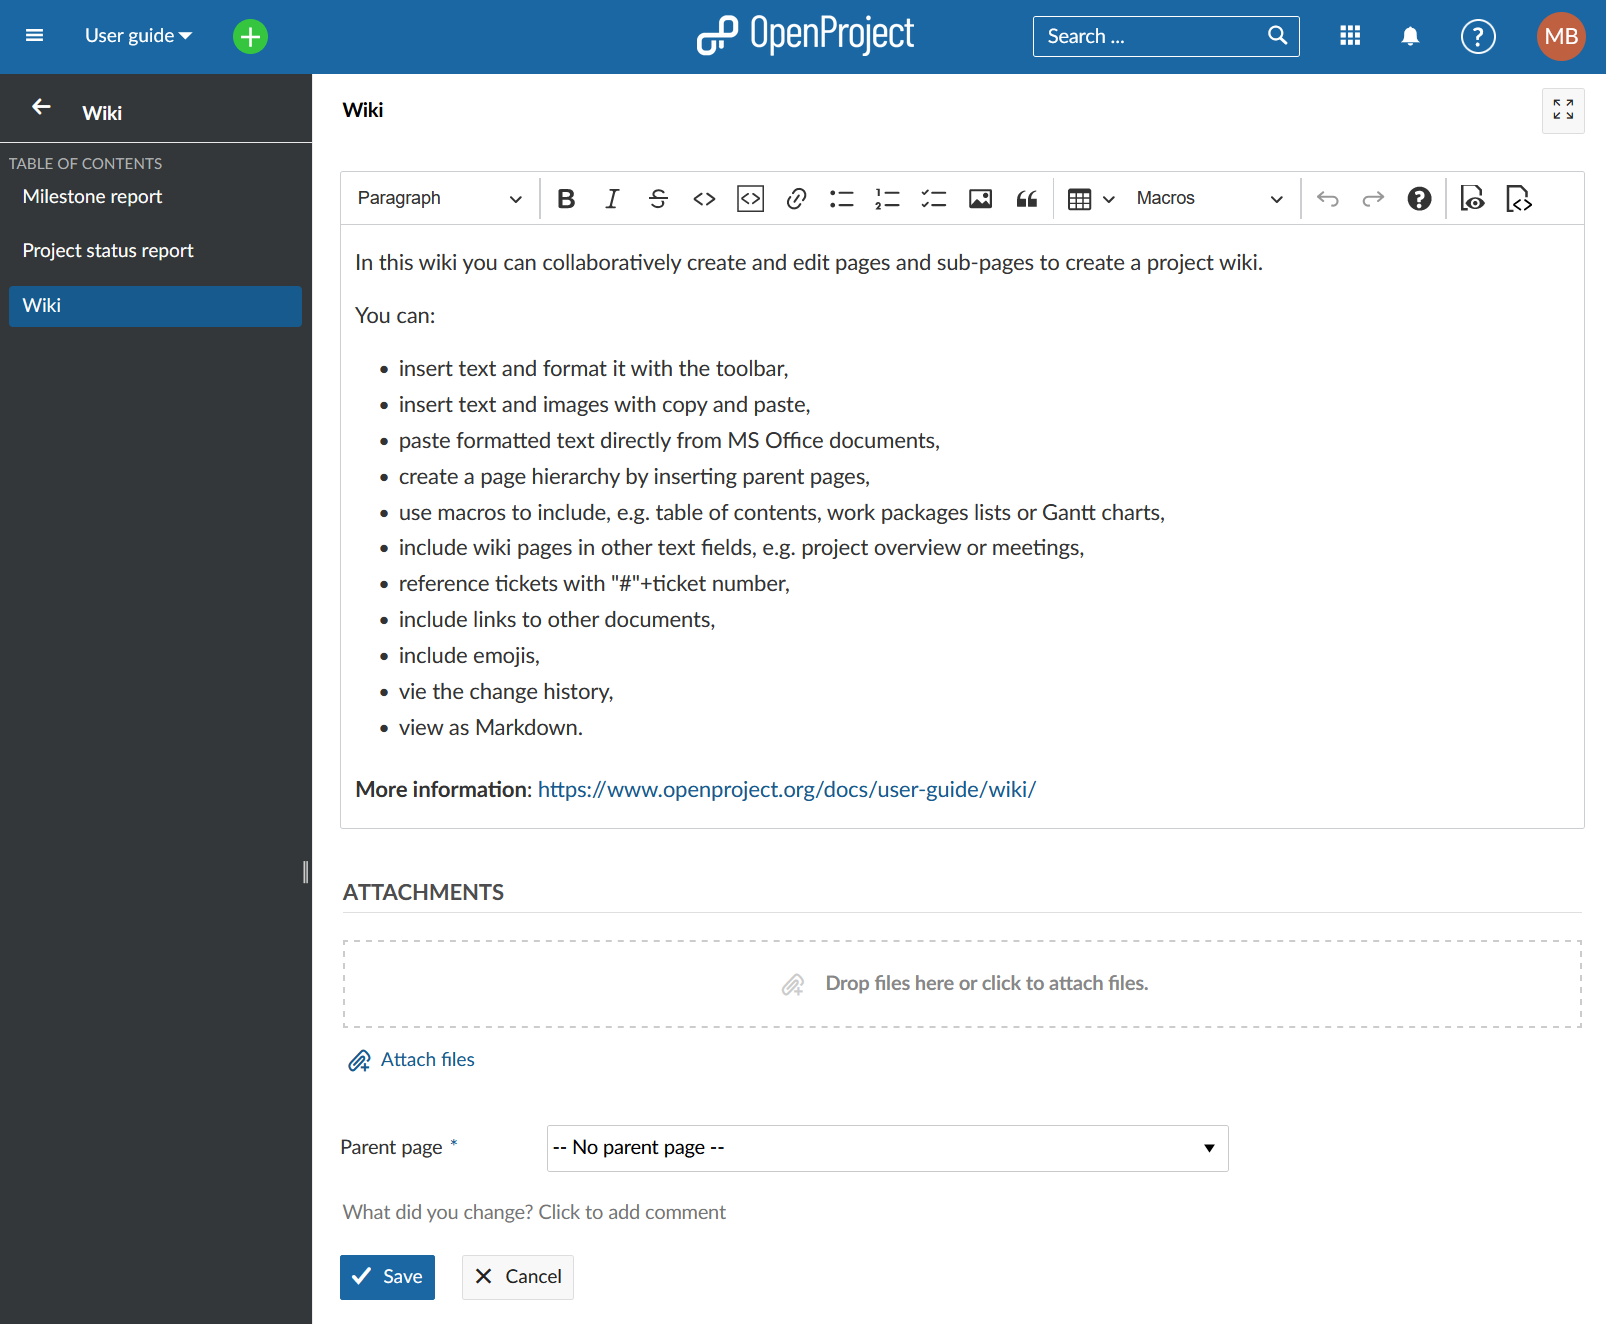
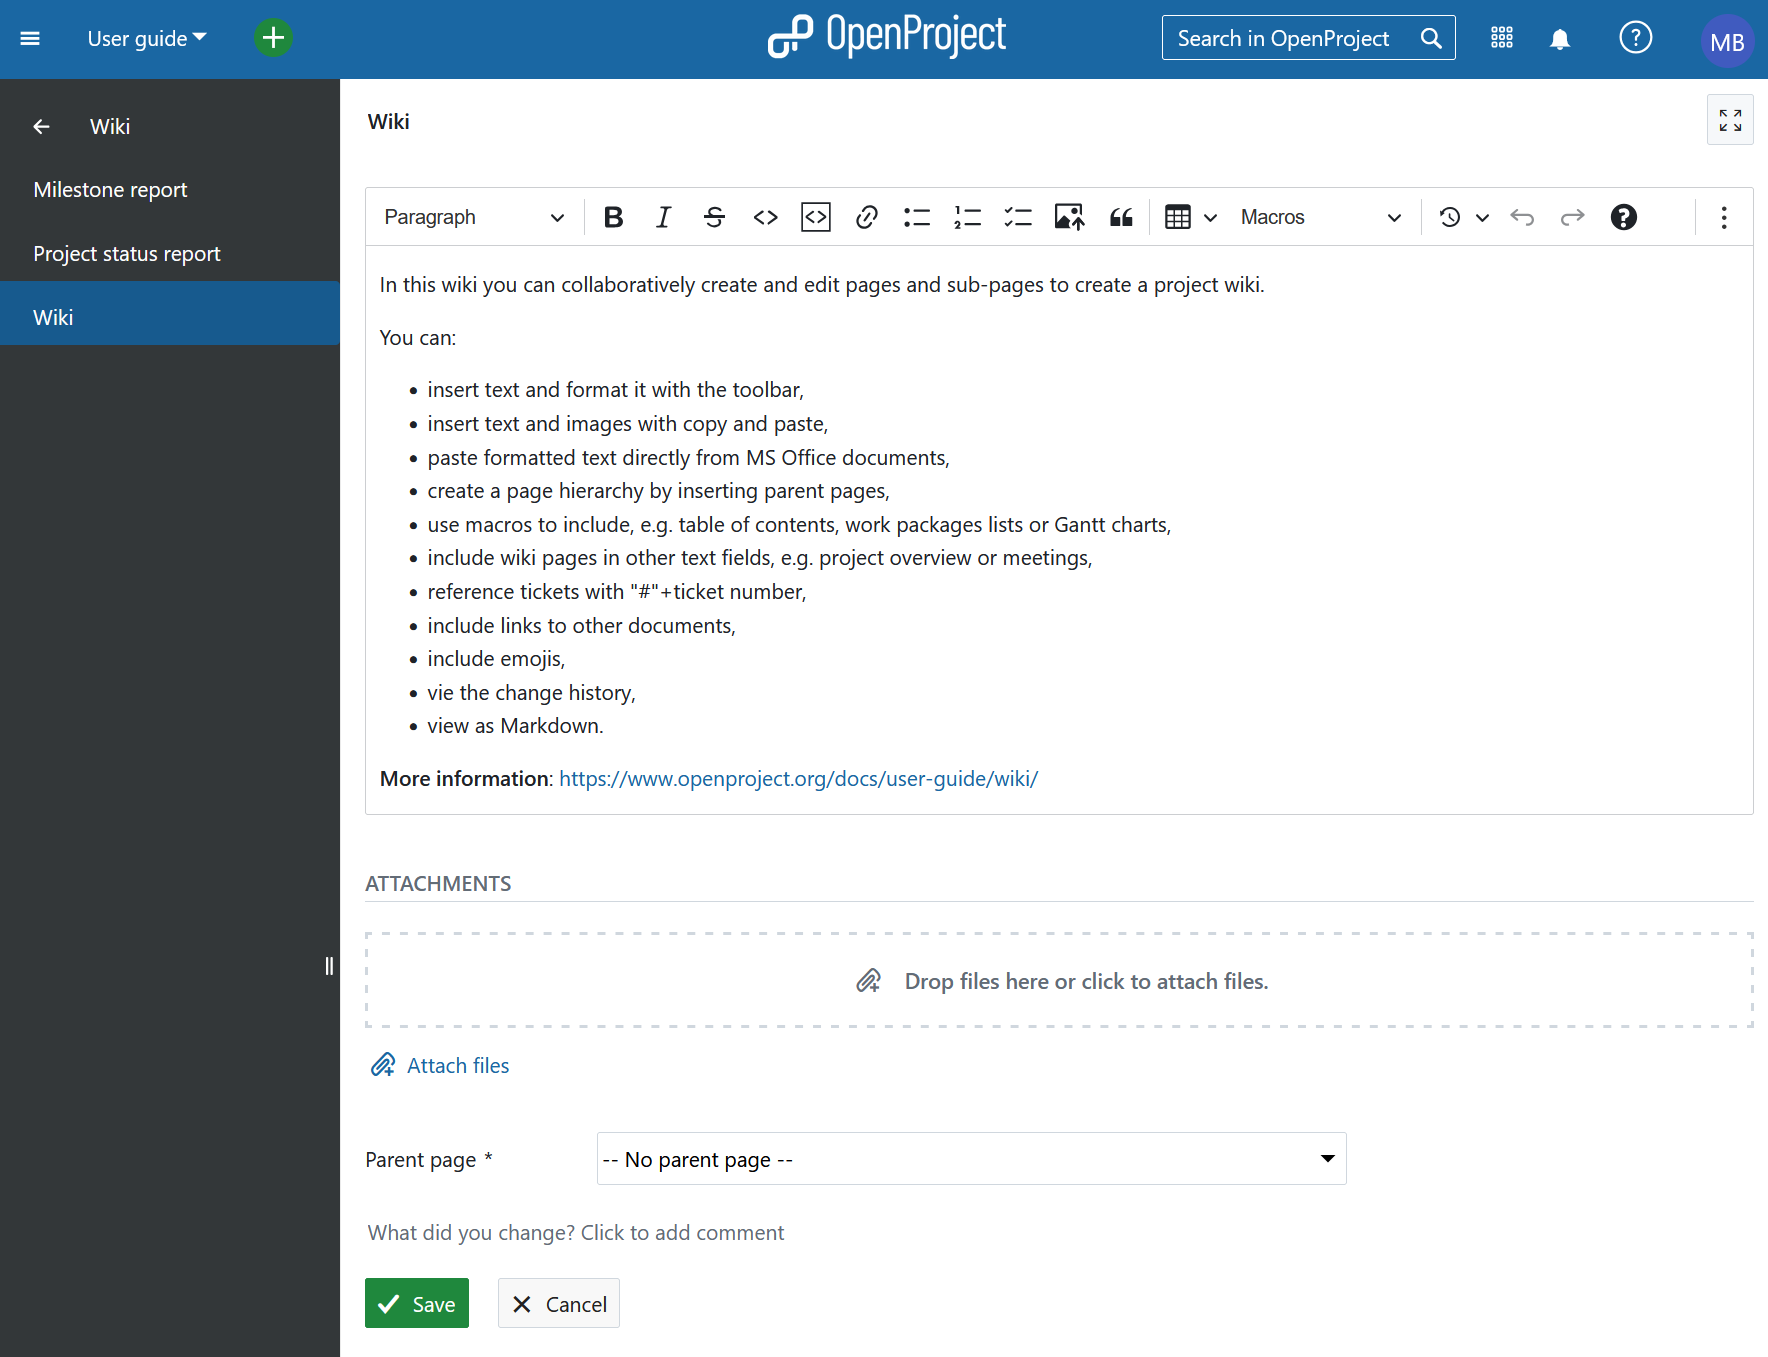
[#57590] 14.5 Documentation: Store revisions of WYSIWYG content in local storage  https://community.openproject.org/work_packages/57590
[#57590] 14.5 Documentation: Store revisions of WYSIWYG content in local storage

https://community.openproject.org/work_packages/57590

diff --git a/docs/user-guide/wiki/create-edit-wiki/README.md b/docs/user-guide/wiki/create-edit-wiki/README.md
@@ -21,9 +21,11 @@ In OpenProject you can create and edit wiki pages together with your team to doc
 
 To create a new wiki page in a project, navigate to the wiki module in your project menu and click on the green **+ Wiki page** button in the toolbar on the right hand side.
 
-![create-wiki-page](1568198706474.png)
+![Create a new wiki page in OpenProject](openproject_user_guide_create_wiki_page_button.png)
 
-> **Note**: If you do not see the wiki module in your project menu, you first have to [activate the module in your project settings](../../projects).
+> [!TIP]
+>
+> If you do not see the wiki module in your project menu, you first have to [activate the module in your project settings](../../projects).
 
 The editor window will open, allowing you to enter title and content of the new page.
 
@@ -34,17 +36,23 @@ The editor window will open, allowing you to enter title and content of the new 
 5. Comment which changes you have made to a wiki page.
 6. Save (or cancel) your changes to the page.
 
-![create-wiki](create-wiki-1568199670933.png)
+![Form to create a new wiki page in OpenProject](openproject_user_guide_create_wiki_page_form.png)
 
 ## Edit a wiki page
 
 To edit a wiki page, click the **Edit** button on the wiki page details on the top right.
 
-![edit-wiki-page](edit-wiki-page.png)
+![Edit wiki page in OpenProject](openproject_user_guide_edit_wiki_page_button.png)
 
 The text editor will be opened to make changes to the wiki page, as described above, how to [create a new wiki page](#create-a-new-wiki-page).
 
 Do not forget to **Save** your changes after you finished editing the page.
+
+> [!TIP] 
+>
+> Changes you made are saved locally. If you navigated away from page or could not save your changes due to a technical difficulty, you can access latest changes via the editor toolbar.
+
+![Restore local backups in text editor in OpenProject](openproject_user_guide_wiki_autosave_icon.png)
 
 ### Change the wiki page title
 
@@ -54,13 +62,11 @@ Do not forget to **Save** your changes by pressing the button at the bottom of t
 
 ## Create a wiki page structure
 
-If you want to create a wiki structure with different pages and sub-pages, you can enter a parent page for a wiki page which then will be displayed automatically in the wiki page menu.
-
-![wiki-page-structure](1568209656591.png)
+If you want to create a wiki structure with different pages and sub-pages, you can enter a parent page for a wiki page which then will be displayed automatically in the wiki page menu on the left.
 
 If you are on an existing wiki page and click the green **+ Wiki page** button on top of the page to [create a new wiki page](#create-a-new-wiki-page), the wiki page will already be pre-selected as a **parent page**.
 
-![wiki-parent-page](1568209633619.png)
+![Wiki page structure example with page parent](openproject_user_guide_wiki_child_page_example.png)
 
 You can change the parent page afterwards to change the wiki page structure by clicking on the **Edit** button of an existing wiki page and select the new parent page at the bottom of the form.
 
@@ -68,12 +74,12 @@ If you select **-- No parent page --** the wiki page will be displayed at first 
 
 The pages are ordered alphabetically in the wiki menu.
 
-![wiki-page-structure](1568210445539.png)
+![Wiki page structure example with no parent](openproject_user_guide_wiki_noparent_page_example.png)
 
 ## Watch a wiki page
 
 If you want to keep updated about any changes to a wiki page, you can make use of the **Watch** option. Browse to the wiki page you want to watch and click on the **Watch** button in the top right corner. You can undo this choice at any time.
 
-![watch-wiki](watch-wiki.png)
+![Watch a wiki page in OpenProject](openproject_user_guide_watch_wiki_page_button.png)
 
 With this function being activated, you will receive an e-mail notification (according to your email preferences) after every page update, including a link to the respective changes.

diff --git a/docs/user-guide/work-packages/edit-work-package/README.md b/docs/user-guide/work-packages/edit-work-package/README.md
@@ -33,6 +33,12 @@ The green message on top of the work package indicates a successful update.
 
 ![Successful update message in OpenProject work package](openproject_user_guide_wp_update_message.png)
 
+> [!TIP] 
+>
+> Changes you made are saved locally. If you navigated away from page or could not save your changes due to a technical difficulty, you can access latest changes via the editor toolbar.
+
+![Restore local backups in text editor in OpenProject](openproject_user_guide_wp_autosave_icon.png)
+
 All changes of a work package are documented in the work package tab [Activity](../../../getting-started/work-packages-introduction/#activity-of-work-packages).
 
 > [!NOTE]
